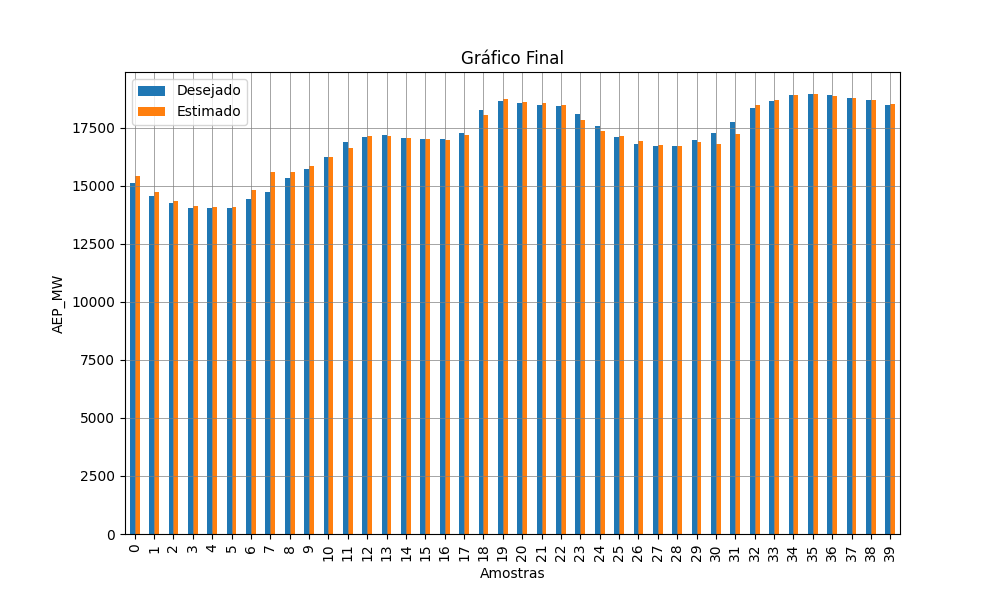
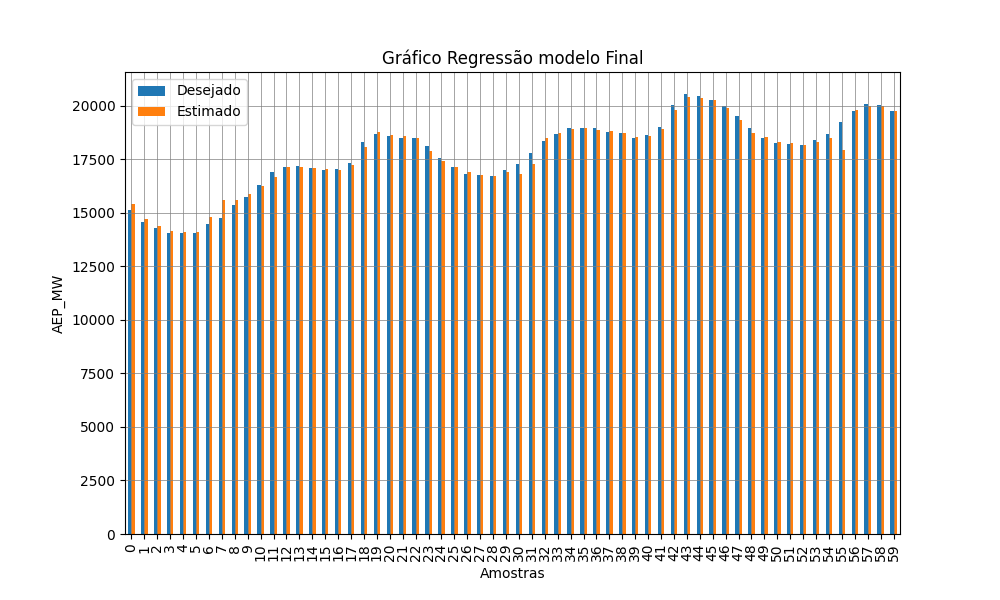
Mudança no arquivo main.py

diff --git a/main.py b/main.py
@@ -4,6 +4,8 @@ from joblib import load
 from sklearn.metrics import r2_score, mean_absolute_error, mean_squared_error
 import json
 import matplotlib.pyplot as plt
+from src.features import prepare_feature
+from src.utils import plot_regressor_model_ultils
 
 # Import para visualizar as pastas
 import os
@@ -20,15 +22,9 @@ print("Modelo carregado com sucesso!")
 
 # Carregar novos dados para testar modelo de data/processed
 df = pd.read_csv('data/processed/AEP_2010.csv')
-df['Datetime'] = pd.to_datetime(df['Datetime'])
 
 # Pré-Processamento do dataframe
-df['year'] = df['Datetime'].dt.year
-df['month'] = df['Datetime'].dt.month
-df['day'] = df['Datetime'].dt.day
-df['hour'] = df['Datetime'].dt.hour
-df['dayofweek'] = df['Datetime'].dt.dayofweek
-df['is_weekend'] = (df['Datetime'].dt.dayofweek >= 5).astype(int)
+df = prepare_feature(df)
 
 # Separando Target de Prediction
 X = df[['year', 'month', 'day', 'hour', 'dayofweek', 'is_weekend']]
@@ -68,16 +64,7 @@ df.to_csv("reports/final/predictions.csv", index=False)
 print('Previsões salvas em reports/final')
 
 # Gerando plot salvando em reports/final/finalGraphic.png
-df_temp = pd.DataFrame({'Desejado': y, 'Estimado': y_pred}) # Criação de um dataframe com os dados desejados e os estimados na predição
-df_temp = df_temp.head(40) # Armazena a quantidade de elementos a serem apresentados no gráfico, pois pode ser visualmente difícil de abstrair caso tenham muitas informações
-ax = df_temp.plot(kind='bar',figsize=(10,6)) # Configuração do tipo de gráfico 'bar' e tamanho da figura
-fig = ax.get_figure()
-plt.grid(which='major', linestyle='-', linewidth='0.5', color='gray') # Configuração do grid do gráfico
-plt.grid(which='minor', linestyle=':', linewidth='0.5', color='blue') # Configuração do grid do gráfico
-plt.xlabel('Amostras')
-plt.ylabel('AEP_MW')
-plt.title('Gráfico Final')
-plt.show()
+fig = plot_regressor_model_ultils(pred=y_pred, target=y, title="Gráfico Regressão modelo Final", xlabel='Amostras', ylabel="AEP_MW")
 #Salvando o plot
 fig.savefig('reports/final/finalGraphic.png')
 print('Plot salvo em reports/final')

diff --git a/README.md b/README.md
@@ -8,7 +8,7 @@
 
 Este projeto tem como objetivo **prever o consumo de energia elétrica** nas horas e dias seguintes, utilizando **modelos de apredizado de máquina** aplicados a **séries temporais**.
 
-O conjunto de dados utilizados foi o [Hourly Energy Consumption (AEP)](https://www.kaggle.com/datasets/robikscube/hourly-energy-consumption/data?select=AEP_hourly.csv) disponibilizado no Kaggle, contendo leituras horárias de consumo de energia elétrica de uma região dos Estados Unidos por megawatts (MW). Utilizando o arquivo AEP_hourly.csv. 
+O conjunto de dados utilizados foi o [Hourly Energy Consumption (AEP)](https://www.kaggle.com/datasets/robikscube/hourly-energy-consumption/data?select=AEP_hourly.csv) disponibilizado no Kaggle, contendo leituras horárias de consumo de energia elétrica de uma região dos Estados Unidos por megawatts (MW). Utilizando o arquivo AEP_hourly.csv.
 
 *O [AEP (American Eletric Power)](https://en.wikipedia.org/wiki/American_Electric_Power) é uma companhia elétrica dos **Estados Unidos**, sendo a maior companhia do país atuando em 11 estados.*
 
@@ -47,8 +47,6 @@ O projeto foi dividido em etapas:
 
 ---
 
-
-
 ## Resultados Obtidos
 
 ---
@@ -80,7 +78,7 @@ EnergyForecast/
 |   |   |-- AEP_ready.csv
 |   |   |-- AEP_hourly_update.csv
 |
-|-- notebooks/
+|-- notebooks/			   
 |   |-- 01_exploracao.ipynb
 |   |-- 02_preprocessamento.ipynb
 |   |-- 03_modelagem.ipynb
